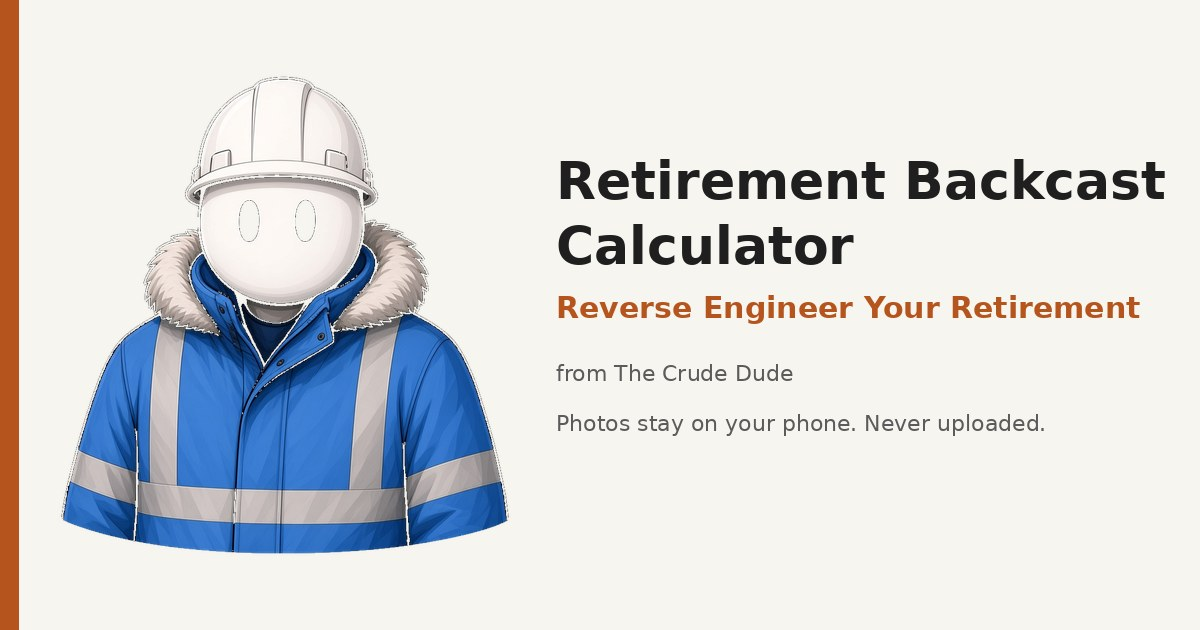
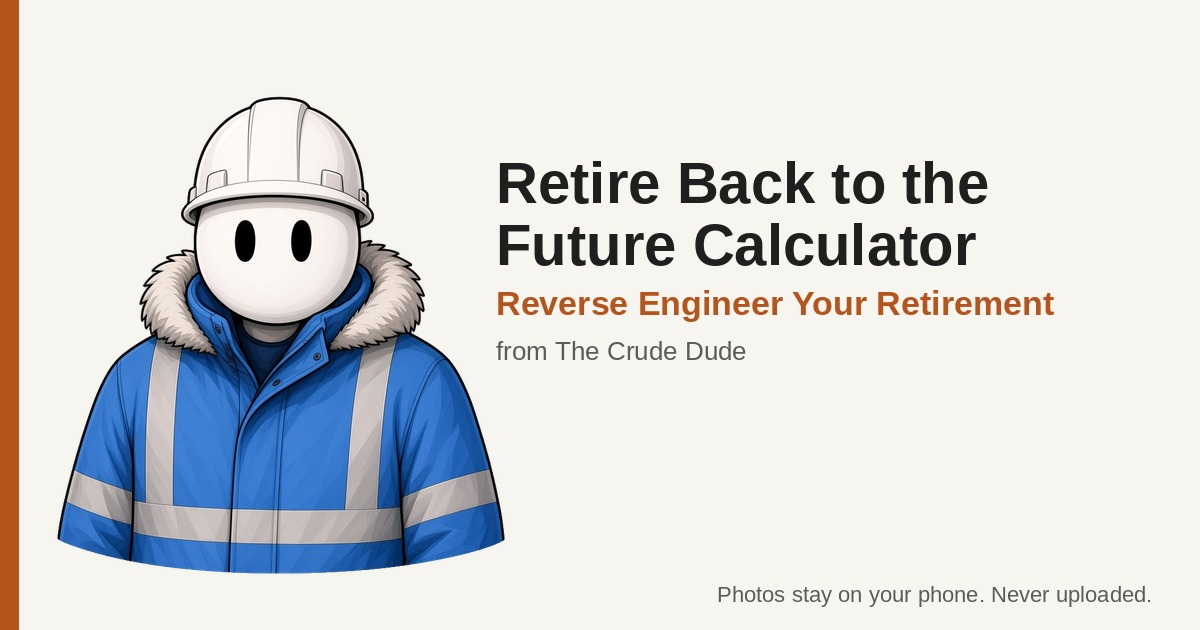
Rename site to Retire Back to the Future Calculator
Update titles, branding, meta/OG/twitter tags, manifest short_name
(Retire Back), legal pages, README, and regenerated og-share.jpg.
Tagline Reverse Engineer Your Retirement unchanged. Local commit only.

diff --git a/index.html b/index.html
@@ -3,13 +3,13 @@
 <head>
 <meta charset="utf-8">
 <meta name="viewport" content="width=device-width, initial-scale=1">
-<title>Retirement Backcast Calculator — Reverse Engineer Your Retirement</title>
-<meta name="description" content="Retirement Backcast Calculator — Reverse Engineer Your Retirement. Upload pay stubs and bills on your phone (photos never leave the device) and reverse-engineer a plan so you never miss your targets. From The Crude Dude.">
+<title>Retire Back to the Future Calculator — Reverse Engineer Your Retirement</title>
+<meta name="description" content="Retire Back to the Future Calculator — Reverse Engineer Your Retirement. Upload pay stubs and bills on your phone (photos never leave the device) and reverse-engineer a plan so you never miss your targets. From The Crude Dude.">
 <meta name="theme-color" content="#b5541c">
-<meta name="application-name" content="Retirement Backcast Calculator">
+<meta name="application-name" content="Retire Back to the Future Calculator">
 <meta name="apple-mobile-web-app-capable" content="yes">
 <meta name="apple-mobile-web-app-status-bar-style" content="default">
-<meta name="apple-mobile-web-app-title" content="Retirement Backcast">
+<meta name="apple-mobile-web-app-title" content="Retire Back">
 <link rel="manifest" href="manifest.webmanifest">
 <link rel="icon" href="favicon.ico" sizes="any">
 <link rel="icon" type="image/png" sizes="32x32" href="icons/favicon-32.png">
@@ -17,12 +17,12 @@
 <link rel="apple-touch-icon" href="icons/apple-touch-icon.png">
 <meta property="og:type" content="website">
 <meta property="og:site_name" content="The Crude Dude">
-<meta property="og:title" content="Retirement Backcast Calculator — Reverse Engineer Your Retirement">
+<meta property="og:title" content="Retire Back to the Future Calculator — Reverse Engineer Your Retirement">
 <meta property="og:description" content="Reverse Engineer Your Retirement. Snap pay stubs and bills on your phone — photos stay on the device. From The Crude Dude.">
 <meta property="og:image" content="og/og-share.jpg">
 <meta property="og:locale" content="en_CA">
 <meta name="twitter:card" content="summary_large_image">
-<meta name="twitter:title" content="Retirement Backcast Calculator — Reverse Engineer Your Retirement">
+<meta name="twitter:title" content="Retire Back to the Future Calculator — Reverse Engineer Your Retirement">
 <meta name="twitter:description" content="Reverse Engineer Your Retirement. Photos stay on your device. From The Crude Dude.">
 <meta name="twitter:image" content="og/og-share.jpg">
 <style>
@@ -105,7 +105,7 @@
     <div class="brand"><img src="icons/icon-192.png" width="48" height="48" alt="Crude Dude mascot"><span style="font:600 15px Arial,Helvetica,sans-serif;color:var(--soft)">The Crude Dude</span></div>
     <a class="sub" href="https://crudedude.ca/subscribe">Get the newsletter: https://crudedude.ca/subscribe</a>
   </div>
-  <h1>Retirement Backcast Calculator</h1>
+  <h1>Retire Back to the Future Calculator</h1>
   <p class="tagline" style="font:600 18px Arial,Helvetica,sans-serif;color:var(--accent);margin:0 0 8px">Reverse Engineer Your Retirement</p>
   <p class="from" style="font:14px Arial,Helvetica,sans-serif;color:var(--soft);margin:0 0 12px">from The Crude Dude</p>
   <p class="lead">Pull up a bucket. Snap your pay stubs and bills on this phone — the photos stay here, never uploaded — and reverse-engineer your retirement plan so you never miss your targets. Hitch money, TFSA room, debt, overtime, the whole crew picture. All amounts in Canadian dollars.</p>
@@ -343,7 +343,7 @@
   <footer>
     <p>I might be a fictional character, but this money talk is as real as it gets. Not financial advice. Numbers are estimates; check your real TFSA room in CRA My Account.</p>
     <p><a href="https://crudedude.ca/subscribe">Get the newsletter</a> · <a href="privacy.html">Privacy</a> · <a href="terms.html">Terms</a> · <a href="delete-account.html">Delete account</a></p>
-    <p style="margin-top:8px">Retirement Backcast Calculator · from The Crude Dude</p>
+    <p style="margin-top:8px">Retire Back to the Future Calculator · from The Crude Dude</p>
   </footer>
 </div>
 <script>

diff --git a/privacy.html b/privacy.html
@@ -3,8 +3,8 @@
 <head>
 <meta charset="utf-8">
 <meta name="viewport" content="width=device-width, initial-scale=1">
-<title>Privacy Policy — Retirement Backcast Calculator</title>
-<meta name="description" content="Privacy Policy for Retirement Backcast Calculator, from The Crude Dude.">
+<title>Privacy Policy — Retire Back to the Future Calculator</title>
+<meta name="description" content="Privacy Policy for Retire Back to the Future Calculator, from The Crude Dude.">
 <meta name="robots" content="noindex,follow">
 <link rel="icon" href="favicon.ico" sizes="any">
 <link rel="icon" type="image/png" sizes="32x32" href="icons/favicon-32.png">
@@ -33,14 +33,14 @@
 <body>
 <div class="wrap">
   <div class="topbar">
-    <div class="brand"><img src="icons/icon-192.png" width="40" height="40" alt=""><span>Retirement Backcast Calculator</span></div>
+    <div class="brand"><img src="icons/icon-192.png" width="40" height="40" alt=""><span>Retire Back to the Future Calculator</span></div>
     <a href="index.html">← Back to the calculator</a>
   </div>
   <div class="card">
     <h1>Privacy Policy</h1>
     <p class="meta">from The Crude Dude · Effective date: November 9, 2026</p>
     
-<p>This policy is written in plain language. It is not legal advice. It covers the <b>web version</b> of the Retirement Backcast Calculator and the <b>phone app</b> (when it launches). Run by Perry Meadus, a sole proprietor in Alberta, operating as The Crude Dude.</p>
+<p>This policy is written in plain language. It is not legal advice. It covers the <b>web version</b> of the Retire Back to the Future Calculator and the <b>phone app</b> (when it launches). Run by Perry Meadus, a sole proprietor in Alberta, operating as The Crude Dude.</p>
 
 <h2>The short version</h2>
 <ul>

diff --git a/terms.html b/terms.html
@@ -3,8 +3,8 @@
 <head>
 <meta charset="utf-8">
 <meta name="viewport" content="width=device-width, initial-scale=1">
-<title>Terms of Use — Retirement Backcast Calculator</title>
-<meta name="description" content="Terms of Use for Retirement Backcast Calculator, from The Crude Dude.">
+<title>Terms of Use — Retire Back to the Future Calculator</title>
+<meta name="description" content="Terms of Use for Retire Back to the Future Calculator, from The Crude Dude.">
 <meta name="robots" content="noindex,follow">
 <link rel="icon" href="favicon.ico" sizes="any">
 <link rel="icon" type="image/png" sizes="32x32" href="icons/favicon-32.png">
@@ -33,14 +33,14 @@
 <body>
 <div class="wrap">
   <div class="topbar">
-    <div class="brand"><img src="icons/icon-192.png" width="40" height="40" alt=""><span>Retirement Backcast Calculator</span></div>
+    <div class="brand"><img src="icons/icon-192.png" width="40" height="40" alt=""><span>Retire Back to the Future Calculator</span></div>
     <a href="index.html">← Back to the calculator</a>
   </div>
   <div class="card">
     <h1>Terms of Use</h1>
     <p class="meta">from The Crude Dude · Effective date: November 9, 2026</p>
     
-<p>These Terms cover the Retirement Backcast Calculator (web and phone app). They are short on purpose. They are not a substitute for legal advice about your own situation.</p>
+<p>These Terms cover the Retire Back to the Future Calculator (web and phone app). They are short on purpose. They are not a substitute for legal advice about your own situation.</p>
 
 <h2>1. Who we are</h2>
 <p>The tool is provided by Perry Meadus, a sole proprietor in Alberta, operating as The Crude Dude. Contact: <a href="mailto:hello@crudedude.ca">hello@crudedude.ca</a>.</p>

diff --git a/delete-account.html b/delete-account.html
@@ -3,8 +3,8 @@
 <head>
 <meta charset="utf-8">
 <meta name="viewport" content="width=device-width, initial-scale=1">
-<title>Delete your account — Retirement Backcast Calculator</title>
-<meta name="description" content="Delete your account for Retirement Backcast Calculator, from The Crude Dude.">
+<title>Delete your account — Retire Back to the Future Calculator</title>
+<meta name="description" content="Delete your account for Retire Back to the Future Calculator, from The Crude Dude.">
 <meta name="robots" content="noindex,follow">
 <link rel="icon" href="favicon.ico" sizes="any">
 <link rel="icon" type="image/png" sizes="32x32" href="icons/favicon-32.png">
@@ -33,7 +33,7 @@
 <body>
 <div class="wrap">
   <div class="topbar">
-    <div class="brand"><img src="icons/icon-192.png" width="40" height="40" alt=""><span>Retirement Backcast Calculator</span></div>
+    <div class="brand"><img src="icons/icon-192.png" width="40" height="40" alt=""><span>Retire Back to the Future Calculator</span></div>
     <a href="index.html">← Back to the calculator</a>
   </div>
   <div class="card">
@@ -44,7 +44,7 @@
 
 <h2>Delete in the app</h2>
 <ol>
-  <li>Open the Retirement Backcast Calculator app.</li>
+  <li>Open the Retire Back to the Future Calculator app.</li>
   <li>Go to <b>Account</b>.</li>
   <li>Tap <b>Delete my account</b>.</li>
   <li>Type <b>DELETE</b> to confirm.</li>

diff --git a/README.md b/README.md
@@ -1,4 +1,4 @@
-# Retirement Backcast Calculator
+# Retire Back to the Future Calculator
 
 **Reverse Engineer Your Retirement**  
 from The Crude Dude (Perry Meadus, Alberta sole proprietor)
@@ -6,7 +6,7 @@ from The Crude Dude (Perry Meadus, Alberta sole proprietor)
 Static web app. Snap pay stubs and bills on your phone — **photos stay on the device, never uploaded** — and reverse-engineer a retirement / TFSA plan so you never miss your targets.
 
 ## Live intent
-Host on **GitHub Pages** from a public repo named `retirement-backcast` (not pushed yet — wait until GitHub is connected).  
+Host on **GitHub Pages** from a public repo named `retire-back-to-the-future` (not pushed yet — wait until GitHub is connected).  
 Placeholder URL in drafts: `{{CALC_URL}}`.
 
 ## Contents
@@ -33,10 +33,10 @@ python3 -m http.server 8765
 ```
 
 ## GitHub Pages (when connected)
-1. Create empty GitHub repo `retirement-backcast`.
-2. From this folder (or `/workspace/crude-dude/site/retirement-backcast/`):
+1. Create empty GitHub repo `retire-back-to-the-future`.
+2. From this folder:
    ```bash
-   git remote add origin git@github.com:<USER>/retirement-backcast.git
+   git remote add origin git@github.com:<USER>/retire-back-to-the-future.git
    git push -u origin main
    ```
 3. Settings → Pages → Deploy from branch `main` / root (or `/docs` if you prefer).
